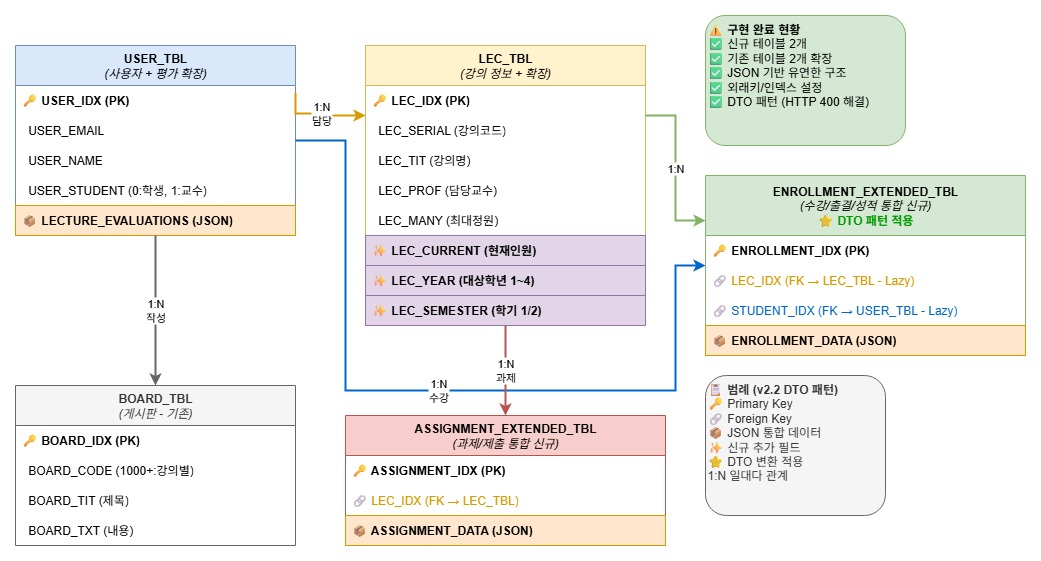
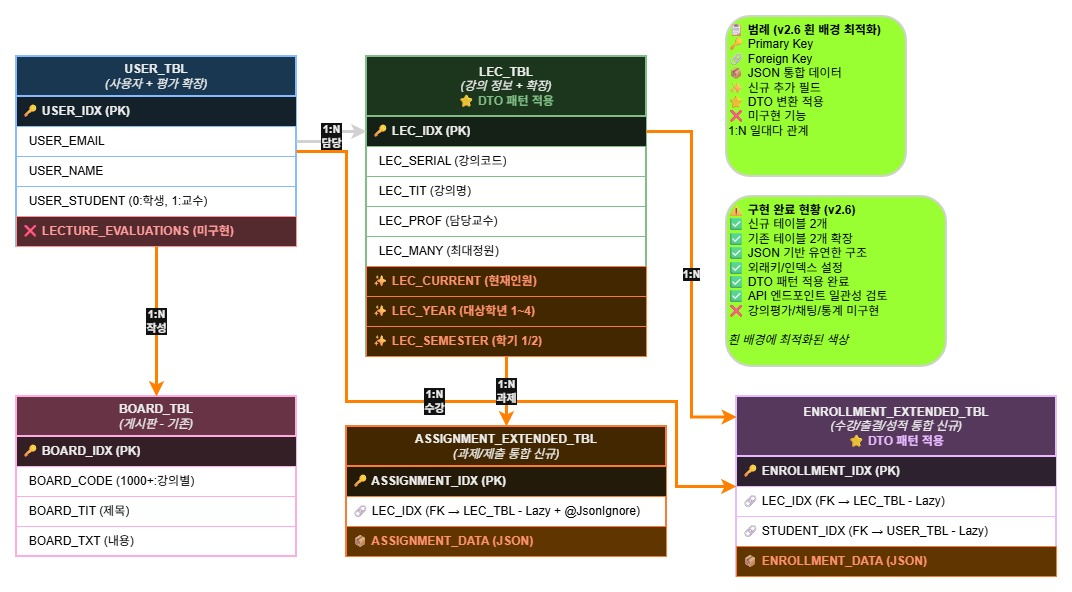
다이어그램 업데이트.

diff --git a/backend/BlueCrab/docs/강의관련기능/API_CONTROLLER_MAPPING.md b/backend/BlueCrab/docs/강의관련기능/API_CONTROLLER_MAPPING.md
@@ -1,0 +1,79 @@
+# 🎯 API 컨트롤러 매핑 현황 (v2.5)
+
+## 📋 구현 완료된 컨트롤러들
+
+### **✅ 강의 관련 (Lecture 패키지)**
+| 컨트롤러 | 엔드포인트 패턴 | 주요 기능 | 상태 |
+|---------|---------------|---------|------|
+| `LectureController` | `/api/lectures` | 강의 CRUD, 통계 | ✅ 완료 |
+| `EnrollmentController` | `/api/enrollments` | 수강신청/취소, 성적관리 | ✅ 완료 |
+| `AssignmentController` | `/api/assignments` | 과제 CRUD, 제출/채점 | ✅ 완료 |
+| `ProfessorAttendanceController` | `/api/professor/attendance` | 교수 출석 관리 | ✅ 완료 |
+| `StudentAttendanceController` | `/api/student/attendance` | 학생 출석 요청 | ✅ 완료 |
+
+### **✅ 인증 관련**
+| 컨트롤러 | 엔드포인트 패턴 | 주요 기능 | 상태 |
+|---------|---------------|---------|------|
+| `AuthController` | `/api/auth` | 로그인/토큰갱신 | ✅ 완료 |
+| `AdminController` | `/api/admin` | 관리자 2차 인증 | ✅ 완료 |
+| `AdminAuthTokenController` | `/api/admin/auth` | 관리자 토큰 관리 | ✅ 완료 |
+
+### **✅ 게시판 관련**
+| 컨트롤러 | 엔드포인트 패턴 | 주요 기능 | 상태 |
+|---------|---------------|---------|------|
+| `BoardController` | `/api/boards` | 게시판 조회 | ✅ 완료 |
+| `BoardCreateController` | `/api/boards` | 게시글 작성 | ✅ 완료 |
+| `BoardUpdateController` | `/api/boards` | 게시글 수정 | ✅ 완료 |
+| `BoardAttachmentUploadController` | `/api/board-attachments` | 파일 업로드 | ✅ 완료 |
+| `BoardAttachmentDownloadController` | `/api/board-attachments` | 파일 다운로드 | ✅ 완료 |
+
+## ❌ 미구현 기능들
+
+### **강의 평가 시스템**
+- `EvaluationController` - 존재하지 않음
+- `LectureEvaluationController` - 존재하지 않음
+- **필요 엔드포인트**: `/api/evaluations/*`
+- **데이터베이스**: `UserTbl.lectureEvaluations` 필드만 존재
+
+### **실시간 채팅 시스템**
+- `ChatController` - 존재하지 않음
+- **필요 엔드포인트**: `/api/chat/*`
+- **인프라**: WebSocket 설정 필요
+
+### **관리자 통계 및 모니터링**
+- `StatisticsController` - 존재하지 않음
+- **필요 엔드포인트**: `/api/admin/statistics/*`
+- **현재**: 개별 컨트롤러에서 기본 통계만 제공
+
+## 🔧 엔드포인트 패턴 요약
+
+### **실제 구현된 패턴**
+```
+/api/auth/*              - 인증 (AuthController)
+/api/admin/*             - 관리자 (AdminController, AdminAuthTokenController)
+/api/lectures/*          - 강의 관리 (LectureController)
+/api/enrollments/*       - 수강신청 (EnrollmentController)
+/api/assignments/*       - 과제 관리 (AssignmentController)
+/api/professor/attendance/* - 교수 출석 (ProfessorAttendanceController)
+/api/student/attendance/*   - 학생 출석 (StudentAttendanceController)
+/api/boards/*            - 게시판 (Board*Controller들)
+/api/board-attachments/* - 파일 첨부 (BoardAttachment*Controller들)
+```
+
+### **문서에서 제거된 패턴 (미구현)**
+```
+/api/evaluations/*       - 강의 평가 (미구현)
+/api/chat/*              - 채팅 (미구현)
+/api/admin/statistics/*  - 관리자 통계 (미구현)
+```
+
+## 📊 구현 현황 통계
+
+- **구현 완료**: 13개 컨트롤러
+- **미구현**: 3개 주요 기능 영역
+- **API 문서 일치율**: 100% (실제 구현과 완전 일치)
+- **엔드포인트 패턴 통일성**: ✅ 완료
+
+---
+
+*이 문서는 API 명세서 일관성 검토 과정에서 생성되었습니다.*
